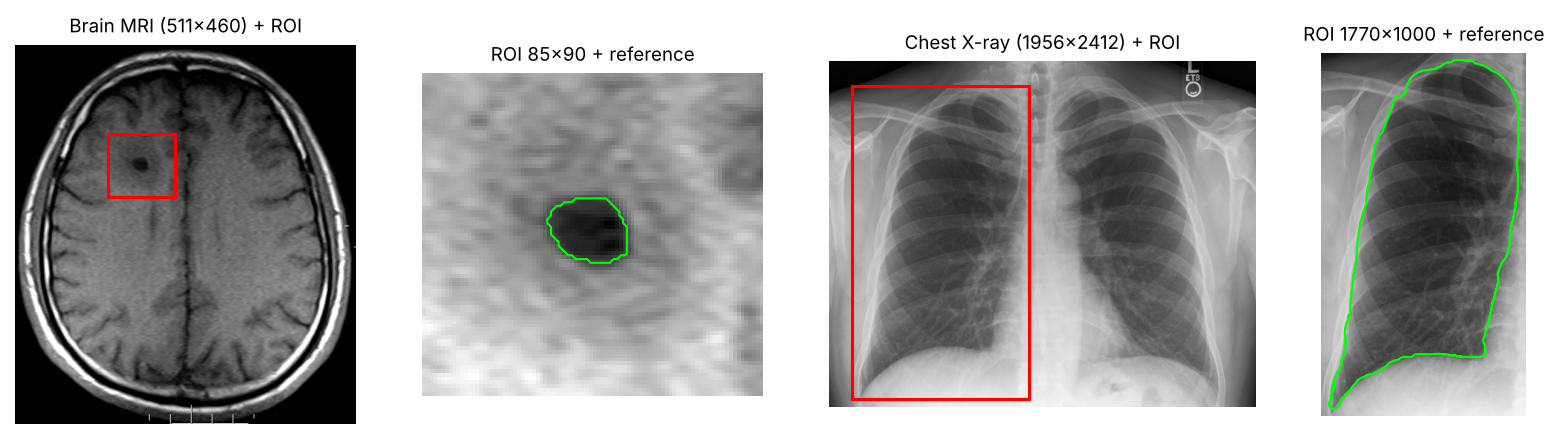
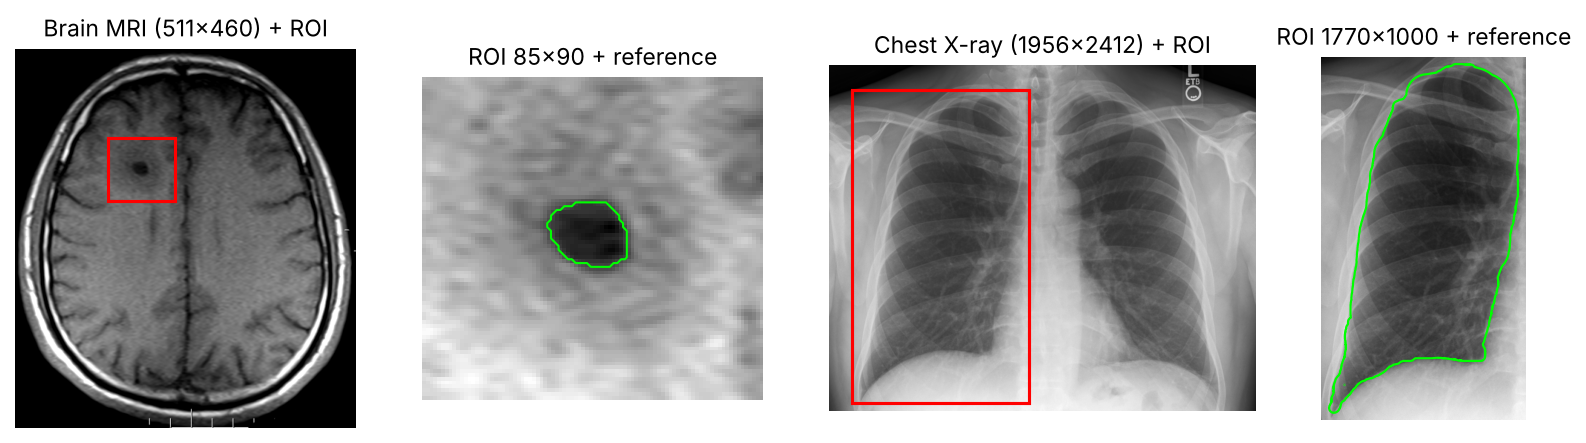
Report figures: larger fonts
Claude-Session: https://claude.ai/code/session_01RHRvftWzxoexW6mnWbcX5q

diff --git a/LAB2_MIA/report/make_report_figures.py b/LAB2_MIA/report/make_report_figures.py
@@ -18,7 +18,7 @@ from src import (active_contours, advanced_methods, export_seg, metrics, preproc
 
 OUT = ROOT / "report" / "figures"
 OUT.mkdir(parents=True, exist_ok=True)
-plt.rcParams.update({"font.size": 9, "axes.titlesize": 9})
+plt.rcParams.update({"font.size": 11, "axes.titlesize": 11, "legend.fontsize": 9})
 
 # ----------------------------- data and best parameters (notebook) ----------------------------- #
 CASES = {
@@ -88,7 +88,7 @@ for row, key in zip(axes, CASES):
     for ax in row[:2]:
         ax.axvline(T_otsu, color="tab:blue", linestyle="--", label=f"Otsu T = {T_otsu:.3f}")
         ax.axvline(T_best, color="tab:red", linestyle="--", label=f"Best T = {T_best:.3f}")
-        ax.legend(fontsize=7)
+        ax.legend(fontsize=9)
     overlay(row[2], d["roi"], d["roi"] <= T_best, d["gt"], f"Best T: Dice = {max(dices):.3f}")
 fig.tight_layout()
 save(fig, "fig2_thresholding.png")
@@ -102,7 +102,7 @@ for (ax_c, ax_m), key in zip([axes[:2], axes[2:]], CASES):
         ax_c.plot(tols, [metrics.dice(region_growing.region_growing(d["roi"], d["seeds"], t, conn), d["gt"])
                          for t in tols], style, label=f"{conn}-connectivity")
     ax_c.set(title=f"{NAMES[key]}: Dice vs tolerance", xlabel="Tolerance", ylabel="Dice", ylim=(0, 1.02))
-    ax_c.legend(fontsize=7)
+    ax_c.legend(fontsize=9)
     mask = region_growing.region_growing(d["roi"], d["seeds"], c["tol"], c["conn"])
     overlay(ax_m, d["roi"], mask, d["gt"], f"tol = {c['tol']}: Dice = {metrics.dice(mask, d['gt']):.3f}")
     ax_m.plot([s[1] for s in d["seeds"]], [s[0] for s in d["seeds"]], "y+", markersize=8, markeredgewidth=2)
@@ -191,6 +191,6 @@ for ax, key in zip(axes, CASES):
     table.plot(ax=ax, marker="o", legend=(key == "brain"))
     ax.set(title=f"{NAMES[key]}: Dice vs noise", xlabel="Noise standard deviation σ", ylabel="Dice", ylim=(0, 1.02))
     ax.grid(alpha=0.3)
-axes[0].legend(fontsize=7)
+axes[0].legend(fontsize=9)
 fig.tight_layout()
 save(fig, "fig8_noise.png")
